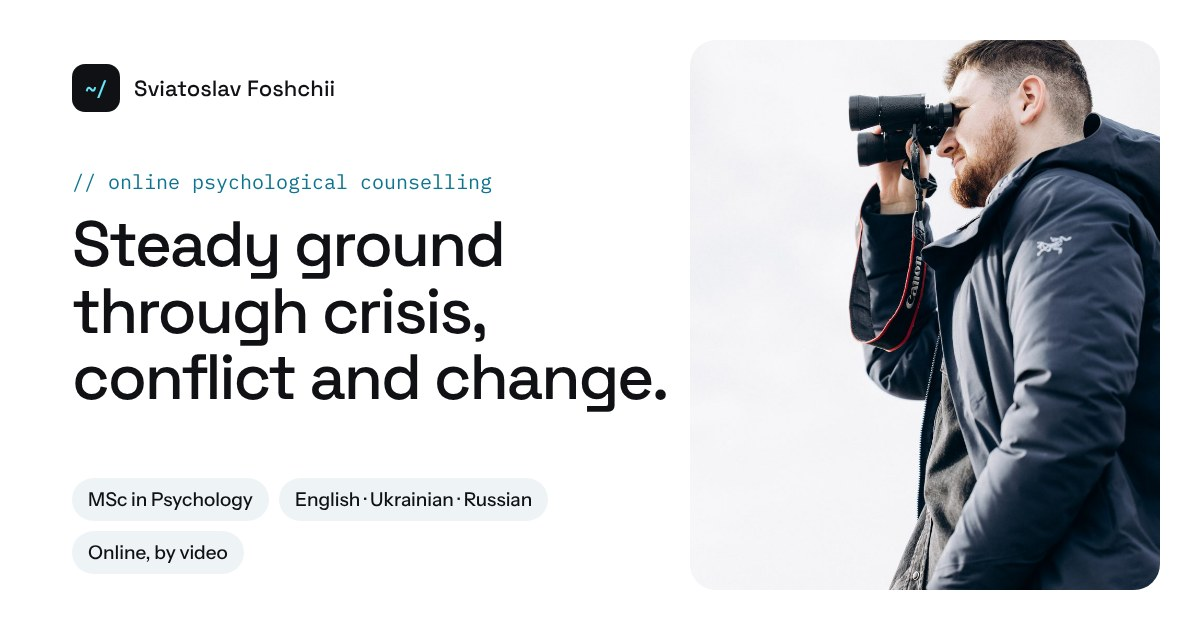
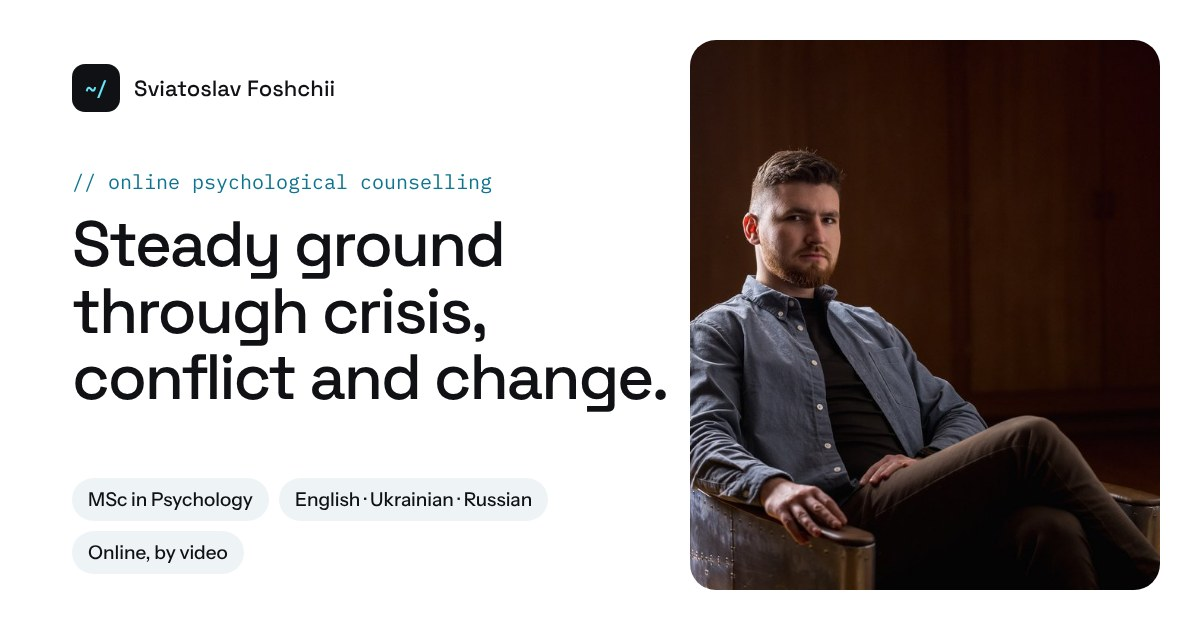
Use one photo: the armchair portrait, on the home and About pages only
The armchair photo becomes the home hero (square, so the whole figure
shows, with the name card on the empty wall; on phones the card sits
under the photo). The home "about me" section is now text only, the
About page keeps the same photo, and the social preview image uses it
too. The two binoculars photos are removed.

Claude-Session: https://claude.ai/code/session_01DgXz8CxUeu961yQM6AEx2y

diff --git a/psychology/site.css b/psychology/site.css
@@ -145,8 +145,9 @@ a:hover .arrow { transform: translateX(3px); }
 .trust li { display: flex; align-items: center; gap: 8px; background: var(--tint); color: var(--ink); font-size: 15px; font-weight: 500; padding: 9px 14px; border-radius: 999px; }
 .trust svg { width: 16px; height: 16px; color: var(--accent); flex: none; }
 .hero-photo { position: relative; }
-.hero-photo img { width: 100%; aspect-ratio: 4 / 5; object-fit: cover; object-position: 50% 20%; border-radius: var(--radius); }
-.badge { position: absolute; left: -28px; bottom: 32px; max-width: 250px; background: var(--card); border-radius: 16px; padding: 14px 18px; box-shadow: var(--shadow); color: var(--ink); }
+.hero-photo img { width: 100%; aspect-ratio: 1; object-fit: cover; object-position: 50% 50%; border-radius: var(--radius); }
+/* sits on the empty wall at the top right, clear of the face and hands */
+.badge { position: absolute; right: -24px; top: 32px; max-width: 250px; background: var(--card); border-radius: 16px; padding: 14px 18px; box-shadow: var(--shadow); color: var(--ink); }
 .badge b { display: block; font: 500 15.5px/1.3 var(--font-display); }
 .badge span { display: block; margin-top: 2px; font-size: 14px; color: var(--muted); line-height: 1.45; }
 .badge .label { margin: 8px 0 0; font-size: 12.5px; }
@@ -295,7 +296,7 @@ figure { margin: 0; }
 @media (max-width: 980px) {
   .hero .wrap, .split, .split.wide-left, .split.narrow-left, .booking-grid, .night-card { grid-template-columns: minmax(0, 1fr); gap: 40px; }
   .hero-photo { max-width: 460px; }
-  .badge { left: 16px; }
+  .badge { right: 16px; top: 16px; }
   .cards { grid-template-columns: repeat(2, minmax(0, 1fr)); }
   .steps { grid-template-columns: minmax(0, 1fr); gap: 28px; }
   .steps::before { display: none; }
@@ -314,6 +315,8 @@ figure { margin: 0; }
   .nav { order: 3; width: 100%; gap: 6px 22px; }
   .nav a { font-size: 15px; }
   .hero { padding: 36px 0 64px; }
+  /* too narrow to overlay without covering the face: sit under the photo */
+  .badge { position: static; max-width: none; margin-top: 12px; box-shadow: none; background: var(--tint); }
   .page-hero { padding: 44px 0 40px; }
   .band, .section { padding: 64px 0; }
   .lead { font-size: 18.5px; }

diff --git a/psychology/index.html b/psychology/index.html
@@ -33,7 +33,7 @@
     "Святослав Фощий"
   ],
   "url": "https://foshchii.com/psychology/",
-  "image": "https://foshchii.com/psychology/assets/portrait-binoculars.jpg",
+  "image": "https://foshchii.com/psychology/assets/hero-armchair.jpeg",
   "description": "Online psychological counselling for adults, in English, Ukrainian or Russian.",
   "email": "mailto:sviatoslav@foshchii.com",
   "address": {
@@ -110,7 +110,7 @@
         </ul>
       </div>
       <div class="hero-photo">
-        <img src="assets/portrait-binoculars.jpg" width="900" height="1349" alt="Sviatoslav Foshchii outdoors, looking through binoculars" fetchpriority="high">
+        <img src="assets/hero-armchair.jpeg" width="746" height="724" alt="Sviatoslav Foshchii sitting in an armchair" fetchpriority="high">
         <div class="badge"><b>Sviatoslav Foshchii</b><span>Seven years of psychology. Based in Copenhagen since 2022.</span></div>
       </div>
     </div>
@@ -183,12 +183,13 @@
   </section>
 
   <section class="section" aria-labelledby="about-title">
-    <div class="wrap split">
-      <img class="photo" src="assets/contact-binoculars.jpeg" width="1086" height="724" alt="Sviatoslav Foshchii smiling, sitting outdoors in Copenhagen" loading="lazy" decoding="async">
+    <div class="wrap split top">
       <div>
         <p class="label">// about me</p>
         <h2 id="about-title">Psychology was my first choice</h2>
-        <p style="margin-top:18px">I studied it for seven years in Ukraine, a bachelor’s with honours and then a master’s, and practised as a counsellor at a legal clinic and in a juvenile detention centre.</p>
+      </div>
+      <div>
+        <p>I studied it for seven years in Ukraine, a bachelor’s with honours and then a master’s, and practised as a counsellor at a legal clinic and in a juvenile detention centre.</p>
         <p>Since 2022 I’ve lived in Copenhagen, so I know from the inside what it takes to rebuild a life in a new country.</p>
         <div class="actions"><a class="textlink" href="about.html">Read my story <span class="arrow" aria-hidden="true">→</span></a></div>
       </div>
